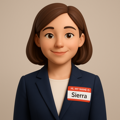
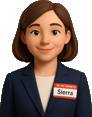
Add Sierra chatbot to v3 and fix greeting function
- Add SierraChatbot to BaseLayout.astro with client:load (all pages)
- Update Sierra avatar images (smaller optimized PNGs from stash)
- Fix greeting.js: replace hardcoded year 2024 with dynamic year
- All img tags already have loading attribute for Lighthouse

diff --git a/netlify/functions/greeting.js b/netlify/functions/greeting.js
@@ -21,7 +21,8 @@ function isCacheValid() {
 async function getHoliday() {
   try {
     const today = DateTime.now().setZone('America/Toronto').toISODate();
-    const response = await fetch(`https://date.nager.at/api/v3/publicholidays/2024/CA`);
+    const currentYear = new Date().getFullYear();
+    const response = await fetch(`https://date.nager.at/api/v3/publicholidays/${currentYear}/CA`);
     const holidays = await response.json();
     
     const todayHoliday = holidays.find(h => h.date === today);
